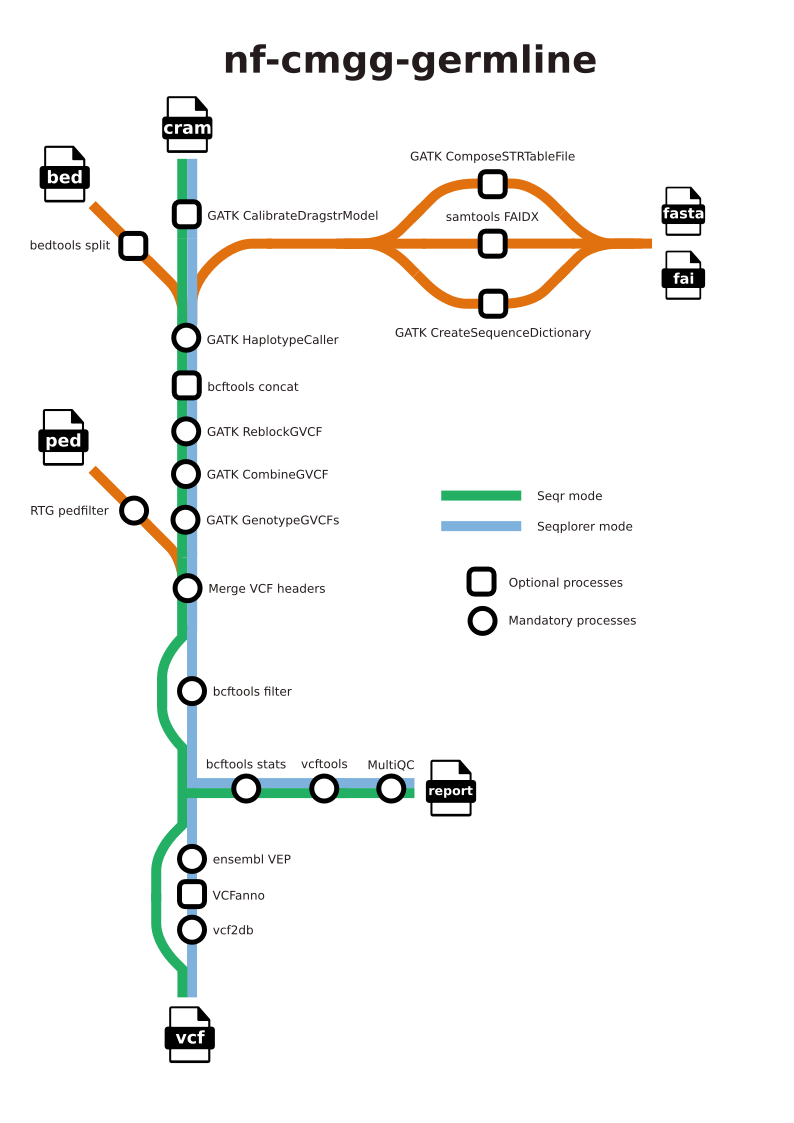
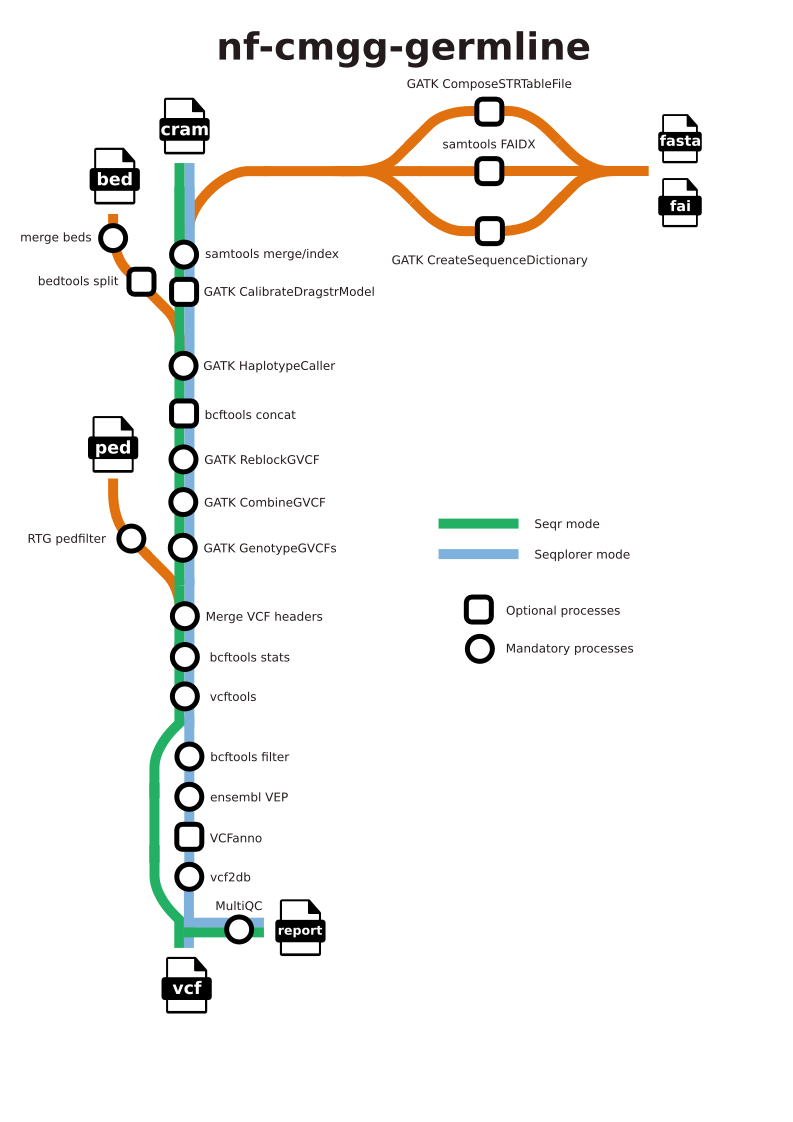
Added the functionality for multiple crams per sample (#7)
* Added the functionality for multiple crams per sample

* linting

* small update to the test

* updated the HPC samplesheets

* Added an optional parameter to convert the bam to cram after merge

Changed region(s): [[0.0303, 0.0312, 0.9079, 0.967], [0.5448, 0.4367, 0.7869, 0.5927]]

diff --git a/bin/check_samplesheet.py b/bin/check_samplesheet.py
@@ -100,7 +100,7 @@ class RowChecker:
     def _validate_third(self, row):
         """Assert that the BED entry has the right format if it exists."""
         assert len(row[self._third_col]) > 0, "A BED file is required"
-        self._validate_format(row[self._third_col],[".bed"])
+        self._validate_format(row[self._third_col],[".bed", ".bed.gz"])
 
     def _validate_fourth(self, row):
         """Assert that the PED entry has the right format if it exists."""
@@ -113,25 +113,6 @@ class RowChecker:
             f'The {str(filename).split(".")[-1].upper()} file has an unrecognized extension: {filename}\n'
             f"It should be one of: {', '.join(extensions)}"
         )
-
-    def validate_unique_samples(self):
-        """
-        Assert that the combination of sample name and CRAM filename is unique.
-
-        In addition to the validation, also rename the sample if more than one sample,
-        CRAM file combination exists.
-
-        """
-        assert len(self._seen) == len(self.modified), "The pair of sample name and CRAM must be unique."
-        if len({pair[0] for pair in self._seen}) < len(self._seen):
-            counts = Counter(pair[0] for pair in self._seen)
-            seen = Counter()
-            for row in self.modified:
-                sample = row[self._sample_col]
-                seen[sample] += 1
-                if counts[sample] > 1:
-                    row[self._sample_col] = f"{sample}_T{seen[sample]}"
-
 
 def sniff_format(handle):
     """
@@ -190,7 +171,6 @@ def check_samplesheet(file_in, file_out):
             except AssertionError as error:
                 logger.critical(f"{str(error)} On line {i + 2}.")
                 sys.exit(1)
-        checker.validate_unique_samples()
     header = list(reader.fieldnames)
     # See https://docs.python.org/3.9/library/csv.html#id3 to read up on `newline=""`.
     with file_out.open(mode="w", newline="") as out_handle:

diff --git a/README.md b/README.md
@@ -12,26 +12,26 @@ The pipeline is built using [Nextflow](https://www.nextflow.io), a workflow tool
 
 ## Pipeline summary
 
-<!-- TODO nf-core: Fill in short bullet-pointed list of the default steps in the pipeline -->
-
 1. Check the input CSV file (This checks the CSV format, headers and files passed throught the CSV)
 2. (Only if `--fasta_fai FILE` is not used) Create a FASTA index file from the FASTA reference ([Samtools Faidx](http://www.htslib.org/doc/samtools-faidx.html))
 3. (Only if `--dict FILE` is not used) Create a sequence dictionary file from the FASTA reference ([GATK CreateSequenceDictionary](https://gatk.broadinstitute.org/hc/en-us/articles/360037422891-CreateSequenceDictionary-Picard-))
 4. (Only if `--strtablefile FILE` is not used and `--use_dragstr_model true` is given) Create an STR table file from the FASTA reference ([GATK ComposeSTRTableFile](https://gatk.broadinstitute.org/hc/en-us/articles/4405451249819-ComposeSTRTableFile))
-5. (Only if `--scatter_count INT` is bigger than 1) Split the BED files for parallellization of HaplotypeCaller ([Bedtools Split](https://bedtools.readthedocs.io/en/latest/content/overview.html))
-6. (Only if `--use_dragstr_model true` is given) Create a DRAGstr model for each sample provided ([GATK CalibrateDragstrModel](https://gatk.broadinstitute.org/hc/en-us/articles/360057441571-CalibrateDragstrModel-BETA-))
-7. Call the variants for each sample. The BED files are used to parallellize this process if `--scatter_count INT` is bigger than 1 ([GATK HaplotypeCaller](https://gatk.broadinstitute.org/hc/en-us/articles/360037225632-HaplotypeCaller))
-8. (Only if `--scatter_count INT` is bigger than 1) Concatenate the GVCF files for each sample ([Bcftools Concat](https://samtools.github.io/bcftools/bcftools.html#concat))
-9. Reblock the GVCFs created with HaplotypeCaller ([GATK ReblockGVCF](https://gatk.broadinstitute.org/hc/en-us/articles/4405443600667-ReblockGVCF))
-10. Combine the reblocked GVCFs of the same family ([GATK CombineGVCF](https://gatk.broadinstitute.org/hc/en-us/articles/360037053272-CombineGVCFs))
-11. Genotype the combined GVCFs ([GATK GenotypeGVCFs](https://gatk.broadinstitute.org/hc/en-us/articles/360037057852-GenotypeGVCFs))
-12. Create a VCF header with pedigree information extracted from the PED file ([RTG pedfilter](https://www.animalgenome.org/bioinfo/resources/manuals/RTGOperationsManual.pdf) => chapter 2.5.18)
-13. Merge the pedigree header with the header of the genotyped VCF (This is done using a custom-written python [script](bin/merge_vcf_headers.py))
-14. (Only if `--output_mode <seqr|seqplorer>` is set to `seqplorer`) Filter the VCF to be the correct format for Seqplorer ([bcftools filter](http://samtools.github.io/bcftools/bcftools.html#filter))
-15. Perform a quality control on the VCFs ([bcftools stats](http://samtools.github.io/bcftools/bcftools.html#stats) and [vcftools](http://vcftools.sourceforge.net/man_latest.html))
-16. (Only if `--output_mode <seqr|seqplorer>` is set to `seqplorer`) Annotate the genotyped VCF files ([Ensembl VEP](https://www.ensembl.org/info/docs/tools/vep/index.html))
-17. (Only if `--output_mode <seqr|seqplorer>` is set to `seqplorer`) Transform the VCF to a Gemini-compatible database file for Seqplorer compatibility ([vcf2db](https://github.com/quinlan-lab/vcf2db))
-18. Run [MultiQC](https://multiqc.info/) on all quality control files
+5. (Only if multiple cram files per sample were given and only for those files) Merge the CRAM files and create an index for them ([Samtools merge](http://www.htslib.org/doc/samtools-merge.html) & [Samtools index](http://www.htslib.org/doc/samtools-index.html))
+6. (Only if multiple bed files per sample were given and only for those files) Merge the BED files (`awk`, `sort` & [bedtools merge](https://bedtools.readthedocs.io/en/latest/content/tools/merge.html)
+7. (Only if `--scatter_count INT` is bigger than 1) Split the BED files for parallellization of HaplotypeCaller ([Bedtools Split](https://bedtools.readthedocs.io/en/latest/content/overview.html))
+8. (Only if `--use_dragstr_model true` is given) Create a DRAGstr model for each sample provided ([GATK CalibrateDragstrModel](https://gatk.broadinstitute.org/hc/en-us/articles/360057441571-CalibrateDragstrModel-BETA-))
+9. Call the variants for each sample. The BED files are used to parallellize this process if `--scatter_count INT` is bigger than 1 ([GATK HaplotypeCaller](https://gatk.broadinstitute.org/hc/en-us/articles/360037225632-HaplotypeCaller))
+10. (Only if `--scatter_count INT` is bigger than 1) Concatenate the GVCF files for each sample ([Bcftools Concat](https://samtools.github.io/bcftools/bcftools.html#concat))
+11. Reblock the GVCFs created with HaplotypeCaller ([GATK ReblockGVCF](https://gatk.broadinstitute.org/hc/en-us/articles/4405443600667-ReblockGVCF))
+12. Combine the reblocked GVCFs of the same family ([GATK CombineGVCF](https://gatk.broadinstitute.org/hc/en-us/articles/360037053272-CombineGVCFs))
+13. Genotype the combined GVCFs ([GATK GenotypeGVCFs](https://gatk.broadinstitute.org/hc/en-us/articles/360037057852-GenotypeGVCFs))
+14. Create a VCF header with pedigree information extracted from the PED file ([RTG pedfilter](https://www.animalgenome.org/bioinfo/resources/manuals/RTGOperationsManual.pdf) => chapter 2.5.18)
+15. Merge the pedigree header with the header of the genotyped VCF (This is done using a custom-written python [script](bin/merge_vcf_headers.py))
+16. (Only if `--output_mode <seqr|seqplorer>` is set to `seqplorer`) Filter the VCF to be the correct format for Seqplorer ([bcftools filter](http://samtools.github.io/bcftools/bcftools.html#filter))
+17. Perform a quality control on the VCFs ([bcftools stats](http://samtools.github.io/bcftools/bcftools.html#stats) and [vcftools](http://vcftools.sourceforge.net/man_latest.html))
+18. (Only if `--output_mode <seqr|seqplorer>` is set to `seqplorer`) Annotate the genotyped VCF files ([Ensembl VEP](https://www.ensembl.org/info/docs/tools/vep/index.html))
+19. (Only if `--output_mode <seqr|seqplorer>` is set to `seqplorer`) Transform the VCF to a Gemini-compatible database file for Seqplorer compatibility ([vcf2db](https://github.com/quinlan-lab/vcf2db))
+20. Run [MultiQC](https://multiqc.info/) on all quality control files
 
 ![metro graph](docs/images/nf-cmgg-germline_metro.png)
 
